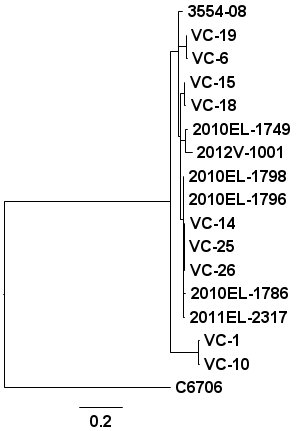
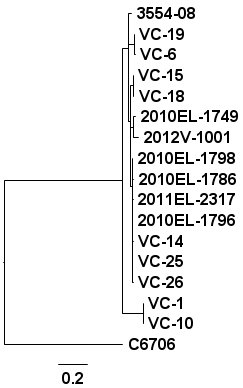
Updated smalt map parameter in mapping.conf and results

Changed region(s): [[0.0, 0.0, 0.9794, 1.0]]

diff --git a/core-snp-tutorial/README.md b/core-snp-tutorial/README.md
@@ -49,7 +49,7 @@ The reference mapping method can be run using the __--mode mapping__ parameter. 
 	min_coverage: 2
 	freebayes_params: '--pvar 0 --ploidy 1 --left-align-indels --min-mapping-quality 30 --min-base-quality 30 --min-alternate-fraction 0.75'
 	smalt_index: '-k 13 -s 6'
-	smalt_map: '-n 1 -f samsoft -r -1'
+	smalt_map: '-n 1 -f samsoft -r -1 -y 0.5'
 
 The main parameter you will want to keep an eye on here is the __min_coverage__ parameter which defines the minimum coverage in a particular position to be included within the results.  For this tutorial we will leave the minimum coverage at 2 since the mean coverage for the downloaded data was 10.  For other data sets with different mean coverage values this number could be adjusted.
 
@@ -82,23 +82,23 @@ Also, the file __output-10/pseudoalign/matrix.csv__ which contains a matrix of c
 
 	$ column -t output-10/pseudoalign/matrix.csv
 	strain       2012V-1001  C6706  2010EL-1749  VC-6  VC-19  2010EL-1786  VC-18  2011EL-2317  VC-1  VC-10  VC-14  VC-15  VC-26  VC-25  2010EL-1796  2010EL-1798  3554-08
-	2012V-1001   0           278    15           38    36     27           27     26           78    78     26     26     26     25     24           24           30
-	C6706        278         0      271          270   268    267          267    266          266   266    266    266    266    265    264          264          262
-	2010EL-1749  15          271    0            31    29     20           20     19           71    71     19     19     19     18     17           17           23
-	VC-6         38          270    31           0     2      27           27     26           70    70     26     26     26     25     24           24           22
-	VC-19        36          268    29           2     0      25           25     24           68    68     24     24     24     23     22           22           20
-	2010EL-1786  27          267    20           27    25     0            16     5            67    67     5      15     5      4      3            3            19
-	VC-18        27          267    20           27    25     16           0      15           67    67     15     1      15     14     13           13           19
-	2011EL-2317  26          266    19           26    24     5            15     0            66    66     4      14     4      3      2            2            18
-	VC-1         78          266    71           70    68     67           67     66           0     0      66     66     66     65     64           64           62
-	VC-10        78          266    71           70    68     67           67     66           0     0      66     66     66     65     64           64           62
-	VC-14        26          266    19           26    24     5            15     4            66    66     0      14     2      1      2            2            18
-	VC-15        26          266    19           26    24     15           1      14           66    66     14     0      14     13     12           12           18
-	VC-26        26          266    19           26    24     5            15     4            66    66     2      14     0      1      2            2            18
-	VC-25        25          265    18           25    23     4            14     3            65    65     1      13     1      0      1            1            17
-	2010EL-1796  24          264    17           24    22     3            13     2            64    64     2      12     2      1      0            0            16
-	2010EL-1798  24          264    17           24    22     3            13     2            64    64     2      12     2      1      0            0            16
-	3554-08      30          262    23           22    20     19           19     18           62    62     18     18     18     17     16           16           0
+	2012V-1001   0           280    15           38    36     27           27     26           78    78     26     26     26     25     24           24           30
+	C6706        280         0      273          272   270    269          269    268          268   268    268    268    268    267    266          266          264
+	2010EL-1749  15          273    0            31    29     20           20     19           71    71     19     19     19     18     17           17           23
+	VC-6         38          272    31           0     2      27           27     26           70    70     26     26     26     25     24           24           22
+	VC-19        36          270    29           2     0      25           25     24           68    68     24     24     24     23     22           22           20
+	2010EL-1786  27          269    20           27    25     0            16     5            67    67     5      15     5      4      3            3            19
+	VC-18        27          269    20           27    25     16           0      15           67    67     15     1      15     14     13           13           19
+	2011EL-2317  26          268    19           26    24     5            15     0            66    66     4      14     4      3      2            2            18
+	VC-1         78          268    71           70    68     67           67     66           0     0      66     66     66     65     64           64           62
+	VC-10        78          268    71           70    68     67           67     66           0     0      66     66     66     65     64           64           62
+	VC-14        26          268    19           26    24     5            15     4            66    66     0      14     2      1      2            2            18
+	VC-15        26          268    19           26    24     15           1      14           66    66     14     0      14     13     12           12           18
+	VC-26        26          268    19           26    24     5            15     4            66    66     2      14     0      1      2            2            18
+	VC-25        25          267    18           25    23     4            14     3            65    65     1      13     1      0      1            1            17
+	2010EL-1796  24          266    17           24    22     3            13     2            64    64     2      12     2      1      0            0            16
+	2010EL-1798  24          266    17           24    22     3            13     2            64    64     2      12     2      1      0            0            16
+	3554-08      30          264    23           22    20     19           19     18           62    62     18     18     18     17     16           16           0
 
 Also, the file __output-10/pseudoalign/pseudoalign-positions.tsv__ which includes every variant that was used by the pipeline for genetating the phylogenetic tree as well as those that were filtered out.
 
@@ -113,7 +113,7 @@ This file contains a list of all variants detected by the pipeline, one per line
 A quick method to count the total number of 'valid' variants used to generate the phylogenetic tree and SNP matrix is with the following command:
 
 	$ grep --count -P "\tvalid\t" output-10/pseudoalign/pseudoalign-positions.tsv
-	358
+	360
 
 Questions
 =========
